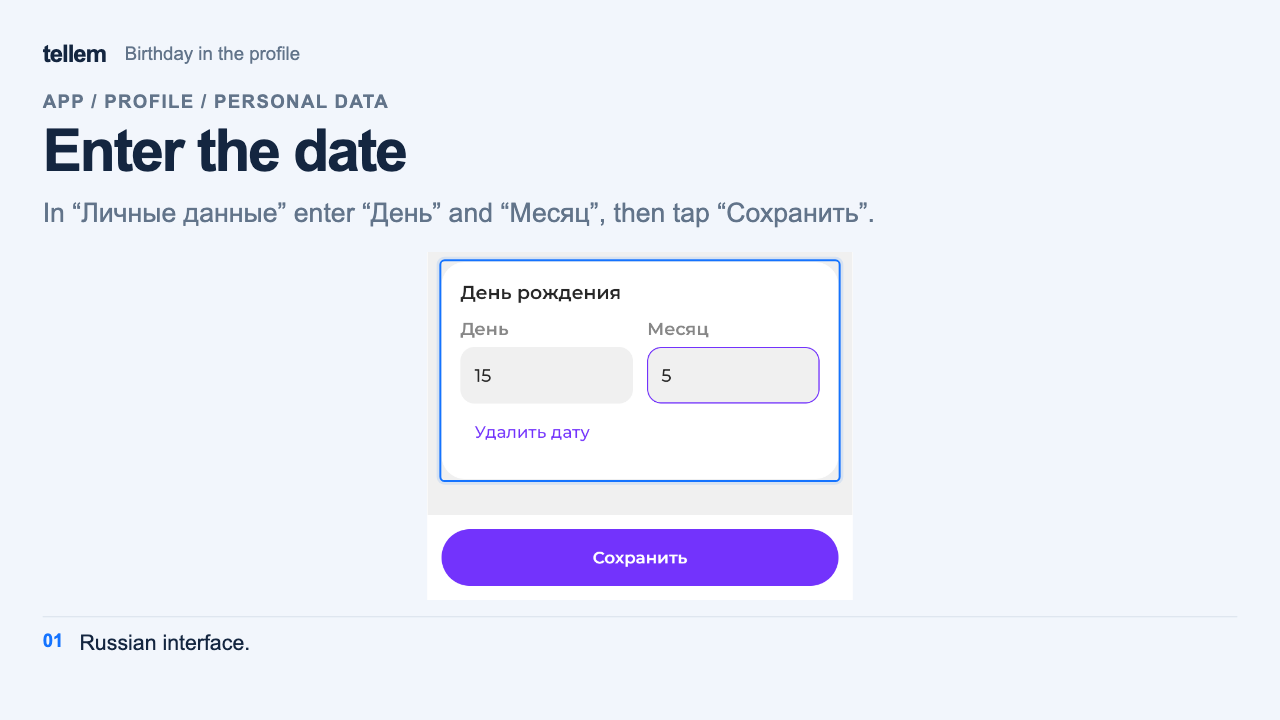
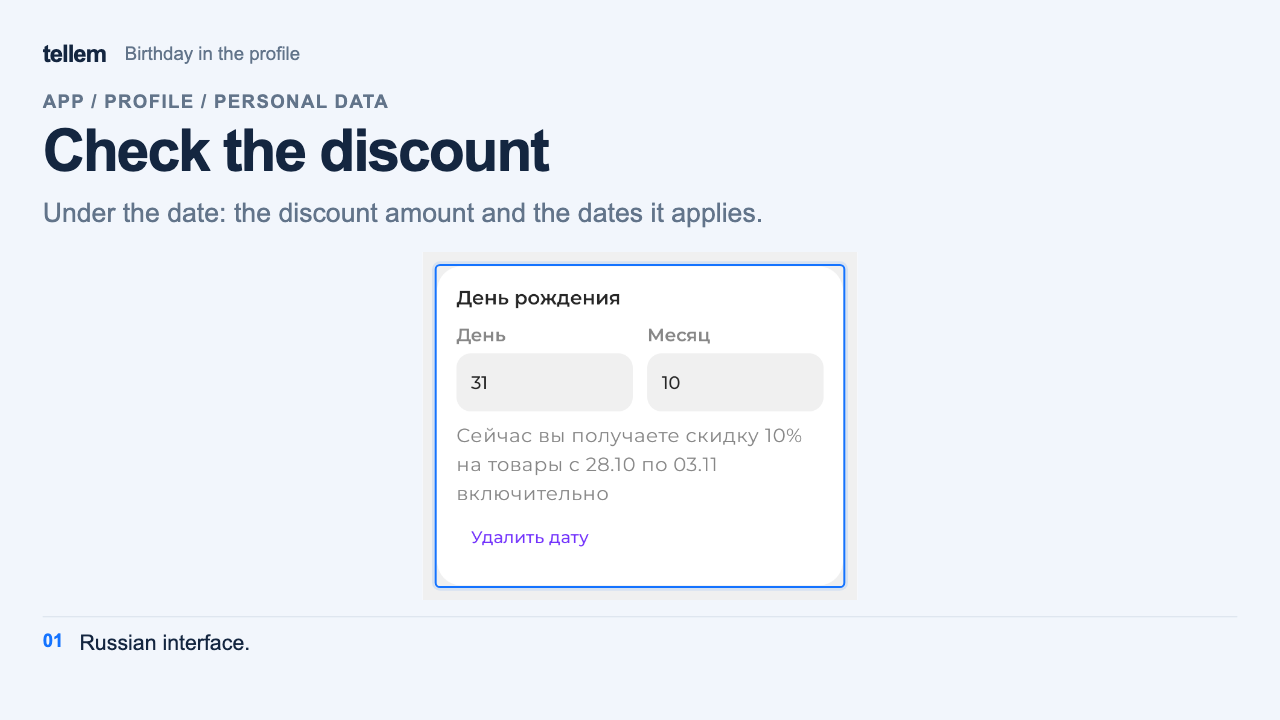
docs: show one consistent birthday discount example
The profile card appears only until a date is saved; the discount and its
dates then show under the date in Personal data. Replace the outdated
profile screenshot.

diff --git a/docs/modules/app/account.md b/docs/modules/app/account.md
@@ -61,21 +61,23 @@ description: "Вход в приложение Tellem, личные данные
 
 ### День рождения: пример со скидкой { #birthday }
 
-В «Личных данных» выберите день и месяц рождения без года и нажмите «Сохранить». «Удалить дату» очищает оба поля; это изменение тоже нужно сохранить. Указать дату можно и без подарка от магазина. Если подарок предусмотрен, рядом с датой и в карточке профиля появятся его размер и период действия.
+В «Личных данных» выберите день и месяц рождения без года и нажмите «Сохранить». «Удалить дату» очищает оба поля; это изменение тоже нужно сохранить. Указать дату можно и без подарка от магазина.
 
-??? example "Пример: дата рождения в «Личных данных»"
+Если магазин дарит подарок ко дню рождения, а дата ещё не указана, в профиле видна карточка «День рождения не заполнен» с размером подарка. Нажмите её, чтобы открыть «Личные данные». После сохранения даты карточка исчезает, а под датой появляются размер подарка и период его действия.
 
-    Пример с демонстрационными данными.
+??? example "Пример: скидка ко дню рождения в профиле"
+
+    Пример с демонстрационными данными: скидка **10%** действует **3 дня до, в день рождения и 3 дня после**, всего 7 дней. Для дня рождения 31 октября это период с 28 октября по 3 ноября включительно. Условия вашего магазина могут отличаться.
 
     <figure markdown="span">
-    [![Личные данные: выделена карточка «День рождения» с полями «День» 15 и «Месяц» 5 и ссылкой «Удалить дату»; внизу кнопка «Сохранить».](../../media/app/app-birthday.png){ width="1280" height="720" loading=lazy }](../../media/app/app-birthday.png)
+    [![Профиль: выделена карточка «День рождения не заполнен» с текстом «Укажите день рождения заранее, чтобы получить скидку 10% на товары»; выше карточка «Анна Петрова».](../../media/app/app-birthday-card.png){ width="1280" height="720" loading=lazy }](../../media/app/app-birthday-card.png)
+    </figure>
+
+    <figure markdown="span">
+    [![Личные данные: выделена карточка «День рождения» с полями «День» 31 и «Месяц» 10, строкой «Сейчас вы получаете скидку 10% на товары с 28.10 по 03.11 включительно» и ссылкой «Удалить дату».](../../media/app/app-birthday.png){ width="1280" height="720" loading=lazy }](../../media/app/app-birthday.png)
     </figure>
 
 Чтобы получить скидку, сохраните дату до начала периода акции; для подарочных бонусов это нужно сделать до начала дня рождения. Позднее сохранение не открывает уже начавшийся подарок. Для бонусов нужен подключённый бонусный счёт: подключить его можно и в сам праздник, если дату вы указали заранее.
-
-На скриншоте карточки в профиле показан пример: скидка **10%** действует **3 дня до, в день рождения и 3 дня после**, всего 7 дней. Условия вашего магазина могут отличаться.
-
-![Карточка в профиле с примером скидки 10% и датами её действия.](../../media/birthday-rewards/customer-profile.png){ width="440" loading=lazy }
 
 ### Привязка и объединение аккаунтов { #linking-and-merging-accounts }
 

diff --git a/docs/modules/app/account.en.md b/docs/modules/app/account.en.md
@@ -61,23 +61,23 @@ When you sign in or link a service, the app fills in empty first name, last name
 
 ### Birthday discount example { #birthday }
 
-In **Personal data**, choose the day and month of your birthday, without the year, and click **Save**. **Remove date** clears both fields; save that change too. You can enter your birthday even if the store offers no gift. If a gift is available, its amount and validity period appear next to the date and on the profile card.
+In **Personal data**, choose the day and month of your birthday, without the year, and click **Save**. **Remove date** clears both fields; save that change too. You can enter your birthday even if the store offers no gift.
 
-??? example "Example: birthday in Personal data"
+If the store offers a birthday gift and you have not saved a date yet, the profile shows a **Birthday not set** card with the gift amount. Click it to open **Personal data**. Once you save the date, the card disappears, and the gift amount and validity period appear under the date.
 
-    Example with demo data. The image shows the Russian interface.
+??? example "Example: birthday discount in the profile"
+
+    Example with demo data: a **10%** discount applies for **3 days before, on the birthday, and 3 days after**, or 7 days in total. For a birthday on October 31, that is October 28 through November 3. Your store's terms may differ. The images show the Russian interface.
 
     <figure markdown="span">
-    [![Personal data: the birthday card is highlighted, with day 15, month 5 and the remove-date link; the Save button is at the bottom.](../../media/app/app-birthday.en.png){ width="1280" height="720" loading=lazy }](../../media/app/app-birthday.en.png)
+    [![Profile: the Birthday not set card is highlighted; its text offers a 10% discount on products if you enter your birthday in advance. The Anna Petrova card is above it.](../../media/app/app-birthday-card.en.png){ width="1280" height="720" loading=lazy }](../../media/app/app-birthday-card.en.png)
+    </figure>
+
+    <figure markdown="span">
+    [![Personal data: the Birthday card is highlighted, with day 31, month 10, a line saying the 10% discount on products applies from 28.10 through 03.11 inclusive, and the Remove date link.](../../media/app/app-birthday.en.png){ width="1280" height="720" loading=lazy }](../../media/app/app-birthday.en.png)
     </figure>
 
 For a discount, save the date before the promotion period begins; for gift points, before the birthday starts. Saving it later does not unlock a gift whose period has begun. Bonus points require a connected bonus account; you can connect it on the birthday itself if you saved the date in advance.
-
-The profile card screenshot shows an example: a **10%** discount applies for **3 days before, on the birthday, and 3 days after**, or 7 days in total. Your store's terms may differ.
-
-The screenshot shows the Russian interface.
-
-![Profile card showing an example 10% discount and its validity dates.](../../media/birthday-rewards/customer-profile.png){ width="440" loading=lazy }
 
 ### Linking and merging accounts { #linking-and-merging-accounts }
 

diff --git a/docs/modules/crm/promo-codes.md b/docs/modules/crm/promo-codes.md
@@ -140,7 +140,7 @@ description: "Обычные акции, расписание скидок, по
 
 Одновременно можно включить один подарок: скидку или [бонусы ко дню рождения](bonus-system.md#birthday). Перед сменой варианта выключите прежний в его редакторе.
 
-Покупатель должен сохранить дату до начала своего периода; поздний ввод не открывает уже начавшийся подарок. Для 29 февраля в невисокосный год используется 28 февраля. Условия и даты покупатель видит в [профиле](../app/account.md#birthday).
+Покупатель должен сохранить дату до начала своего периода; поздний ввод не открывает уже начавшийся подарок. Для 29 февраля в невисокосный год используется 28 февраля. Условия и даты покупатель видит в «Личных данных» [профиля](../app/account.md#birthday).
 
 После первого заказа условия подарка сохраняются для текущего периода. Выключение исходной акции прекращает скидку; новая акция не выдаёт второй подарок за тот же год. Доставка в скидке не участвует. Правила сравнения с другими скидками приведены [ниже](#combining-discounts).
 

diff --git a/docs/modules/crm/promo-codes.en.md b/docs/modules/crm/promo-codes.en.md
@@ -140,7 +140,7 @@ If a birthday promotion exists, open it with “Edit”, even if it is disabled.
 
 Only one gift can be enabled: a discount or [birthday points](bonus-system.md#birthday). Before changing the gift type, disable the previous one in its editor.
 
-Buyers must save their date before their period begins; entering it later does not unlock a gift already in progress. February 29 uses February 28 in a non-leap year. Buyers see conditions and dates in their [profile](../app/account.md#birthday).
+Buyers must save their date before their period begins; entering it later does not unlock a gift already in progress. February 29 uses February 28 in a non-leap year. Buyers see conditions and dates in **Personal data** of their [profile](../app/account.md#birthday).
 
 After the first order, gift conditions are saved for the current period. Disabling the original promotion stops the discount; a new promotion does not award a second gift for the same year. Delivery is excluded. Rules for comparing discounts appear [below](#combining-discounts).
 
